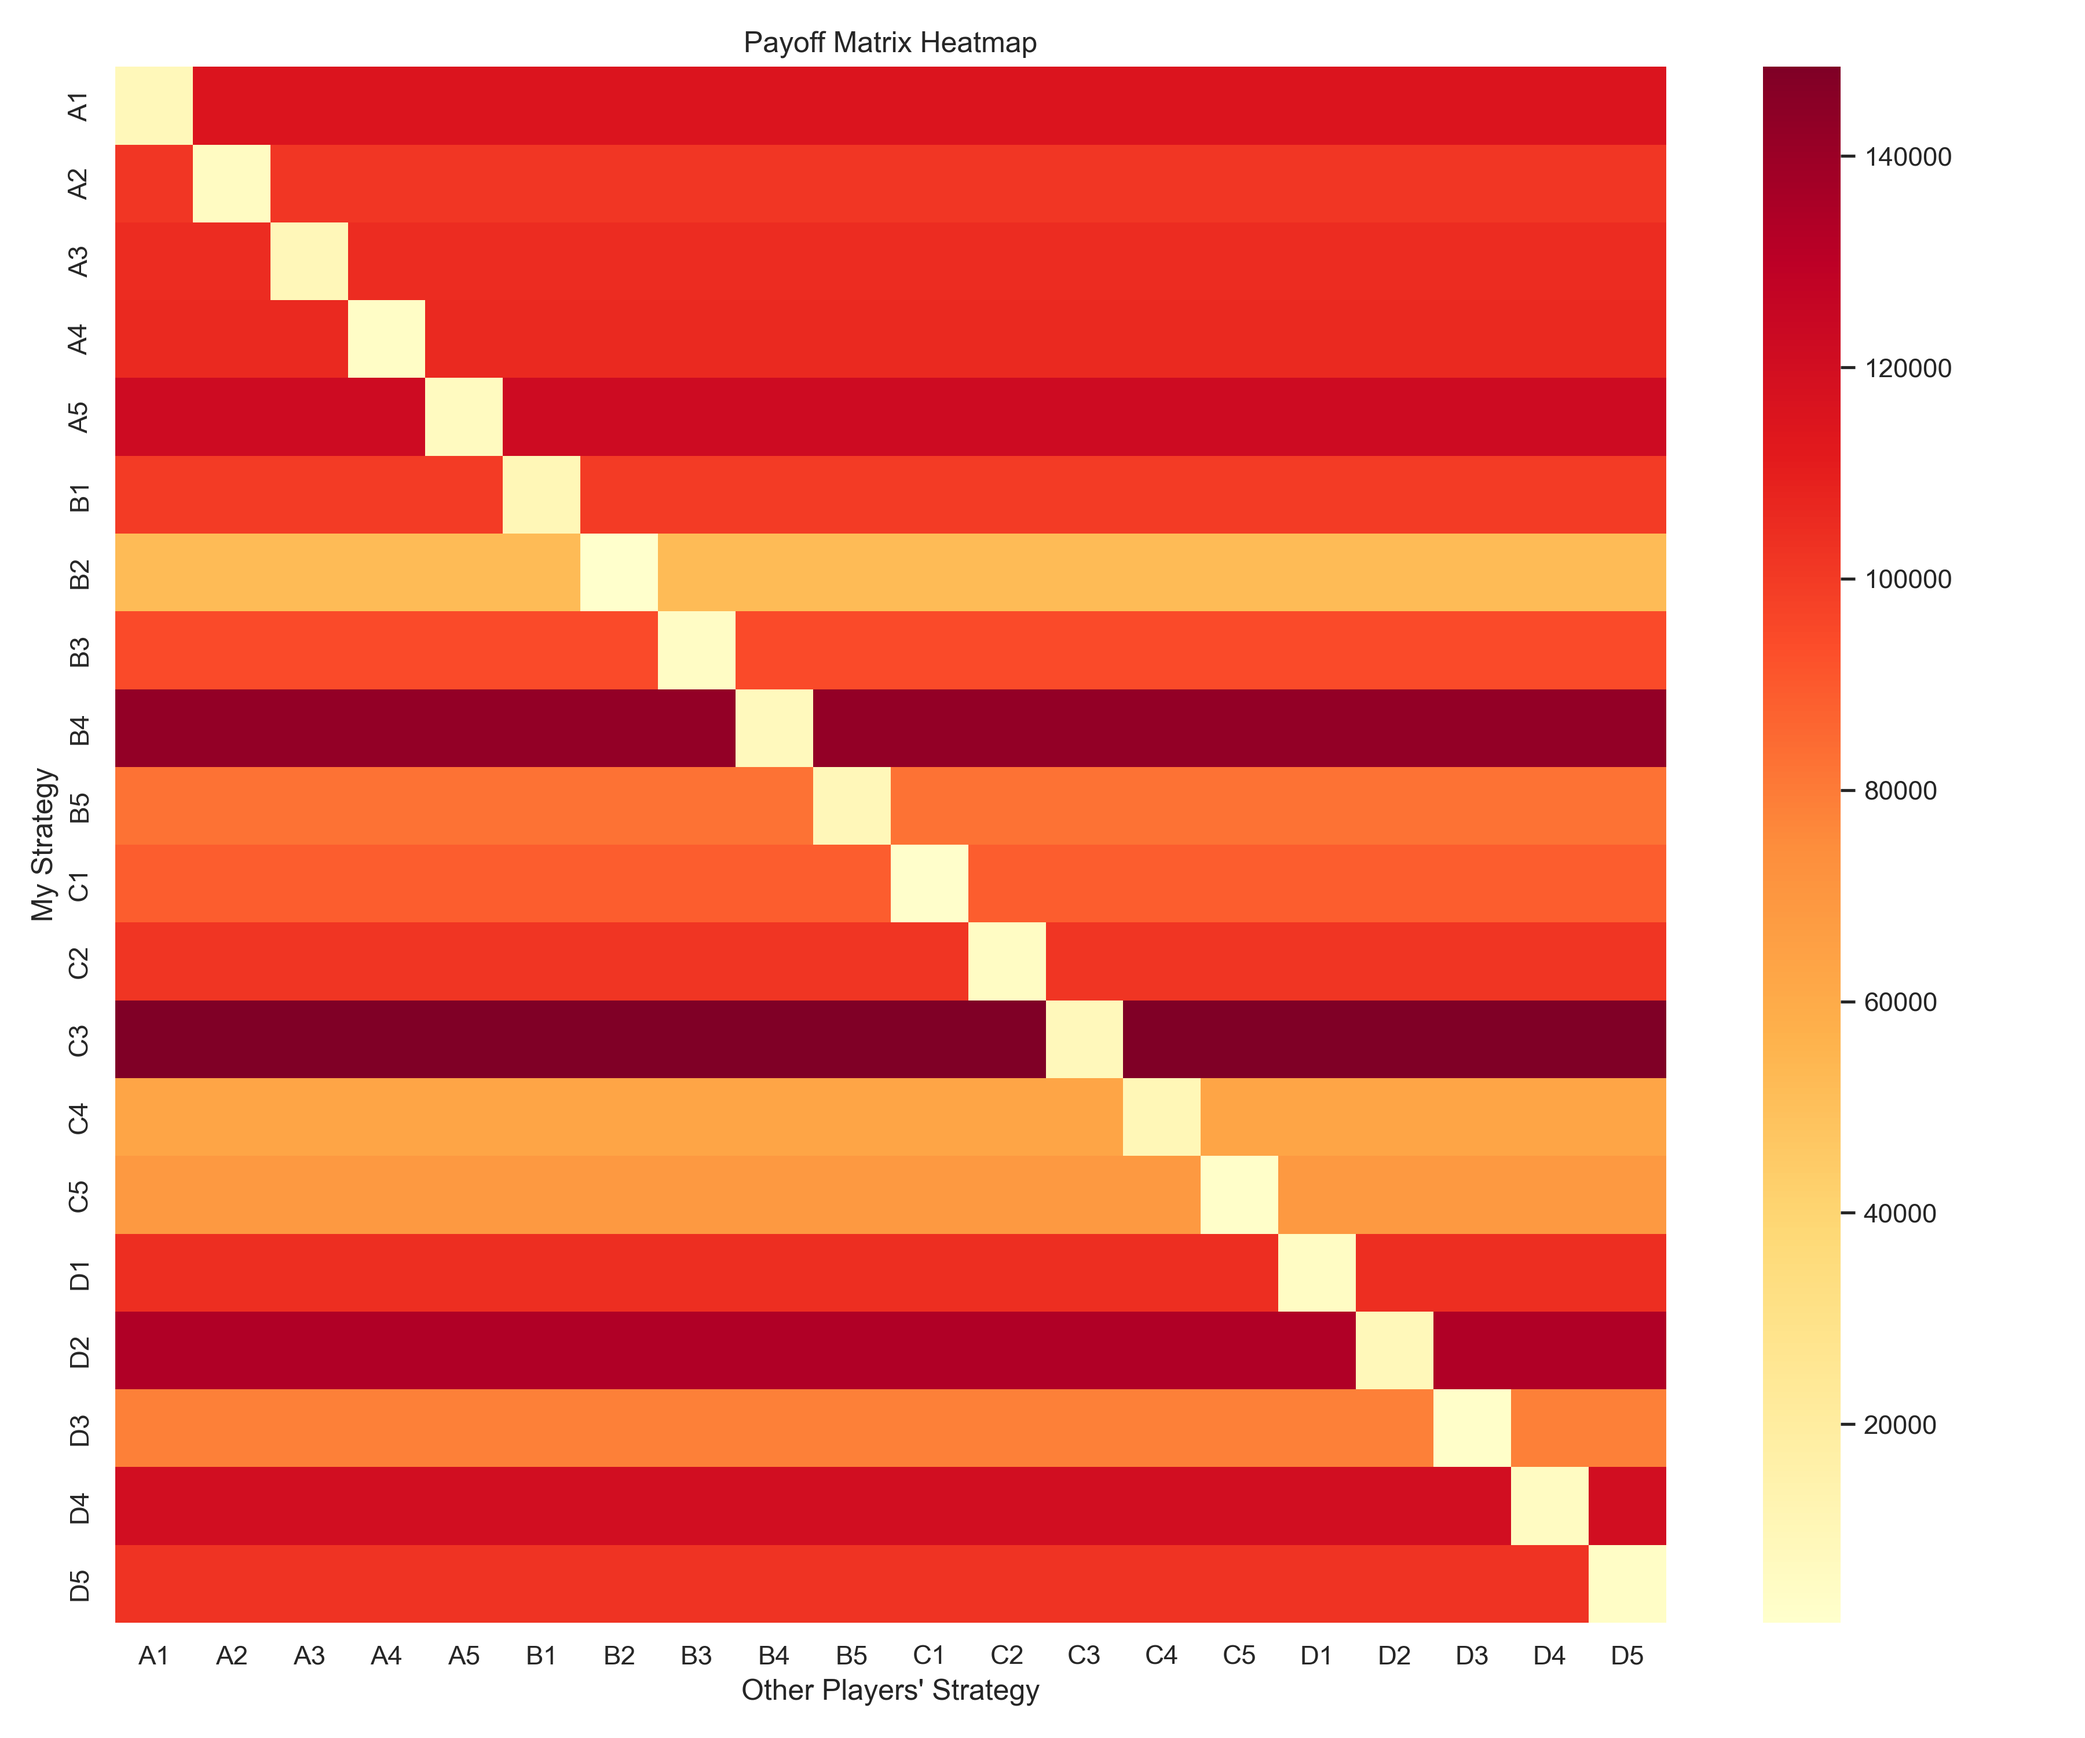
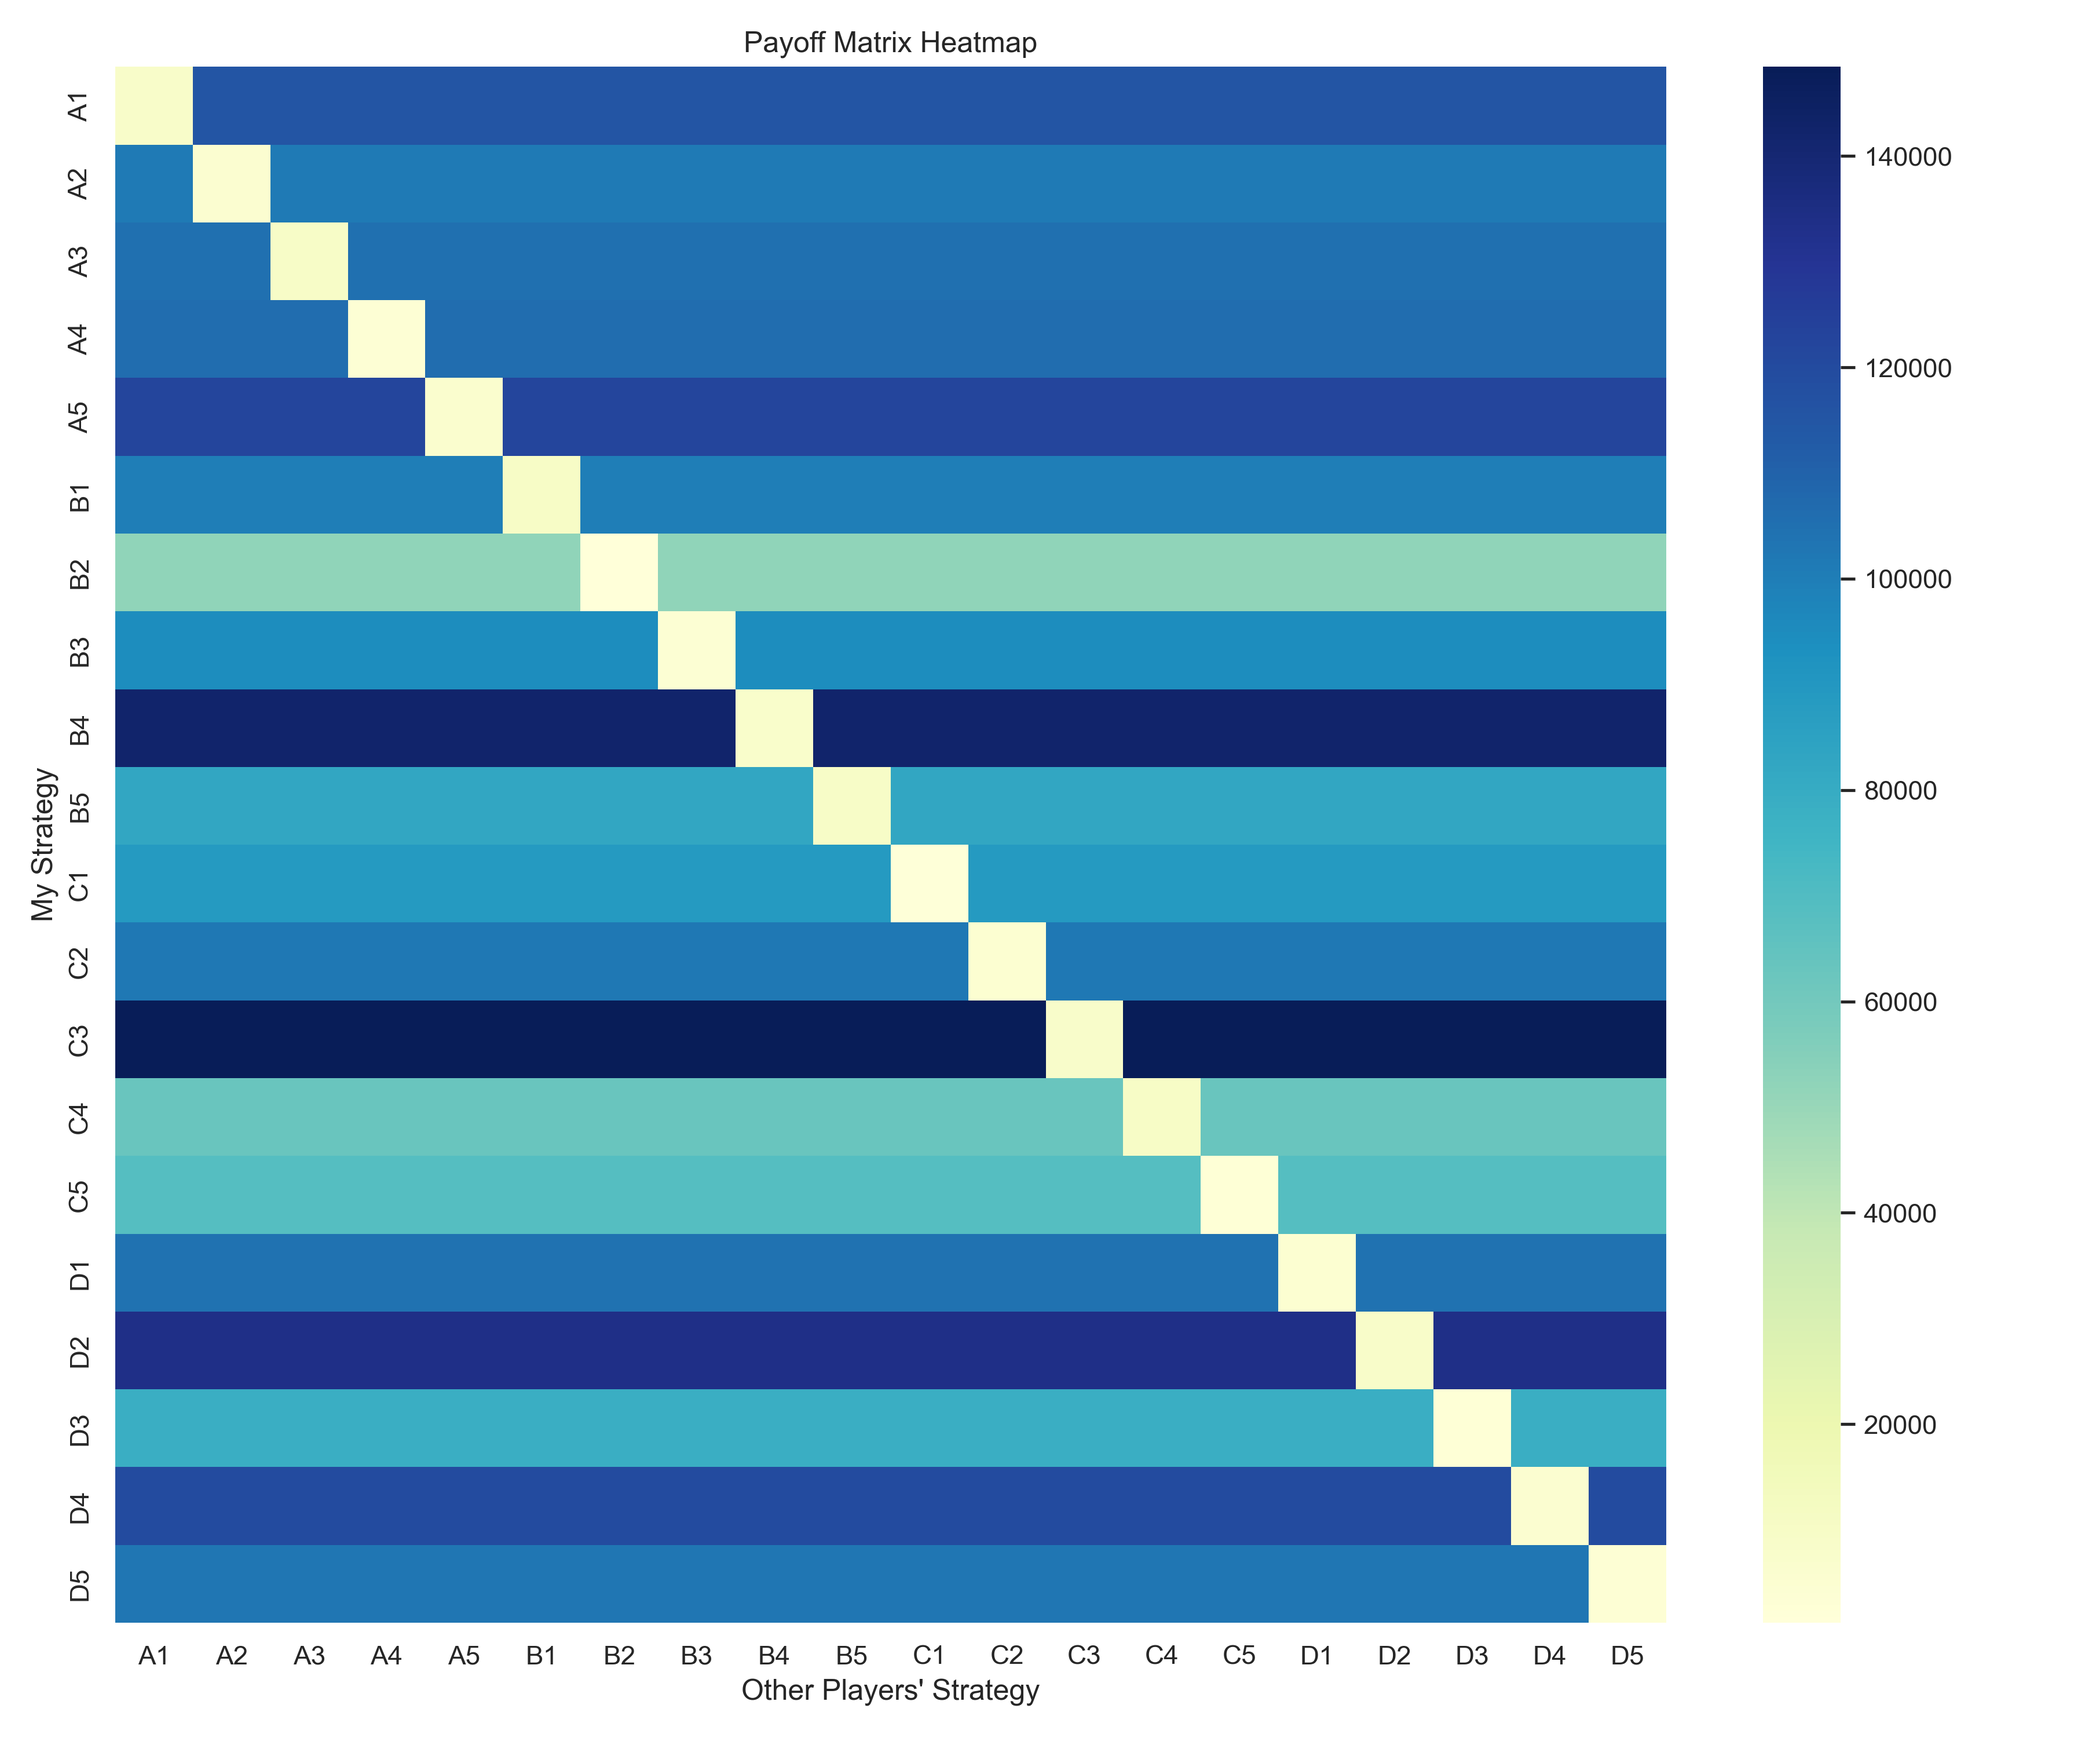
Reverted payoff matrix color scheme to original YlGnBu

diff --git a/advanced_treasure_analysis.py b/advanced_treasure_analysis.py
@@ -264,7 +264,7 @@ def run_advanced_analysis(output_dir: str,
     sns.heatmap(analyzer.payoff_matrix, annot=False, fmt=".0f", 
               xticklabels=[t.id for t in treasures],
               yticklabels=[t.id for t in treasures], 
-              cmap="YlOrRd")
+              cmap="YlGnBu")
     plt.xlabel("Other Players' Strategy")
     plt.ylabel("My Strategy")
     plt.title("Payoff Matrix Heatmap")
